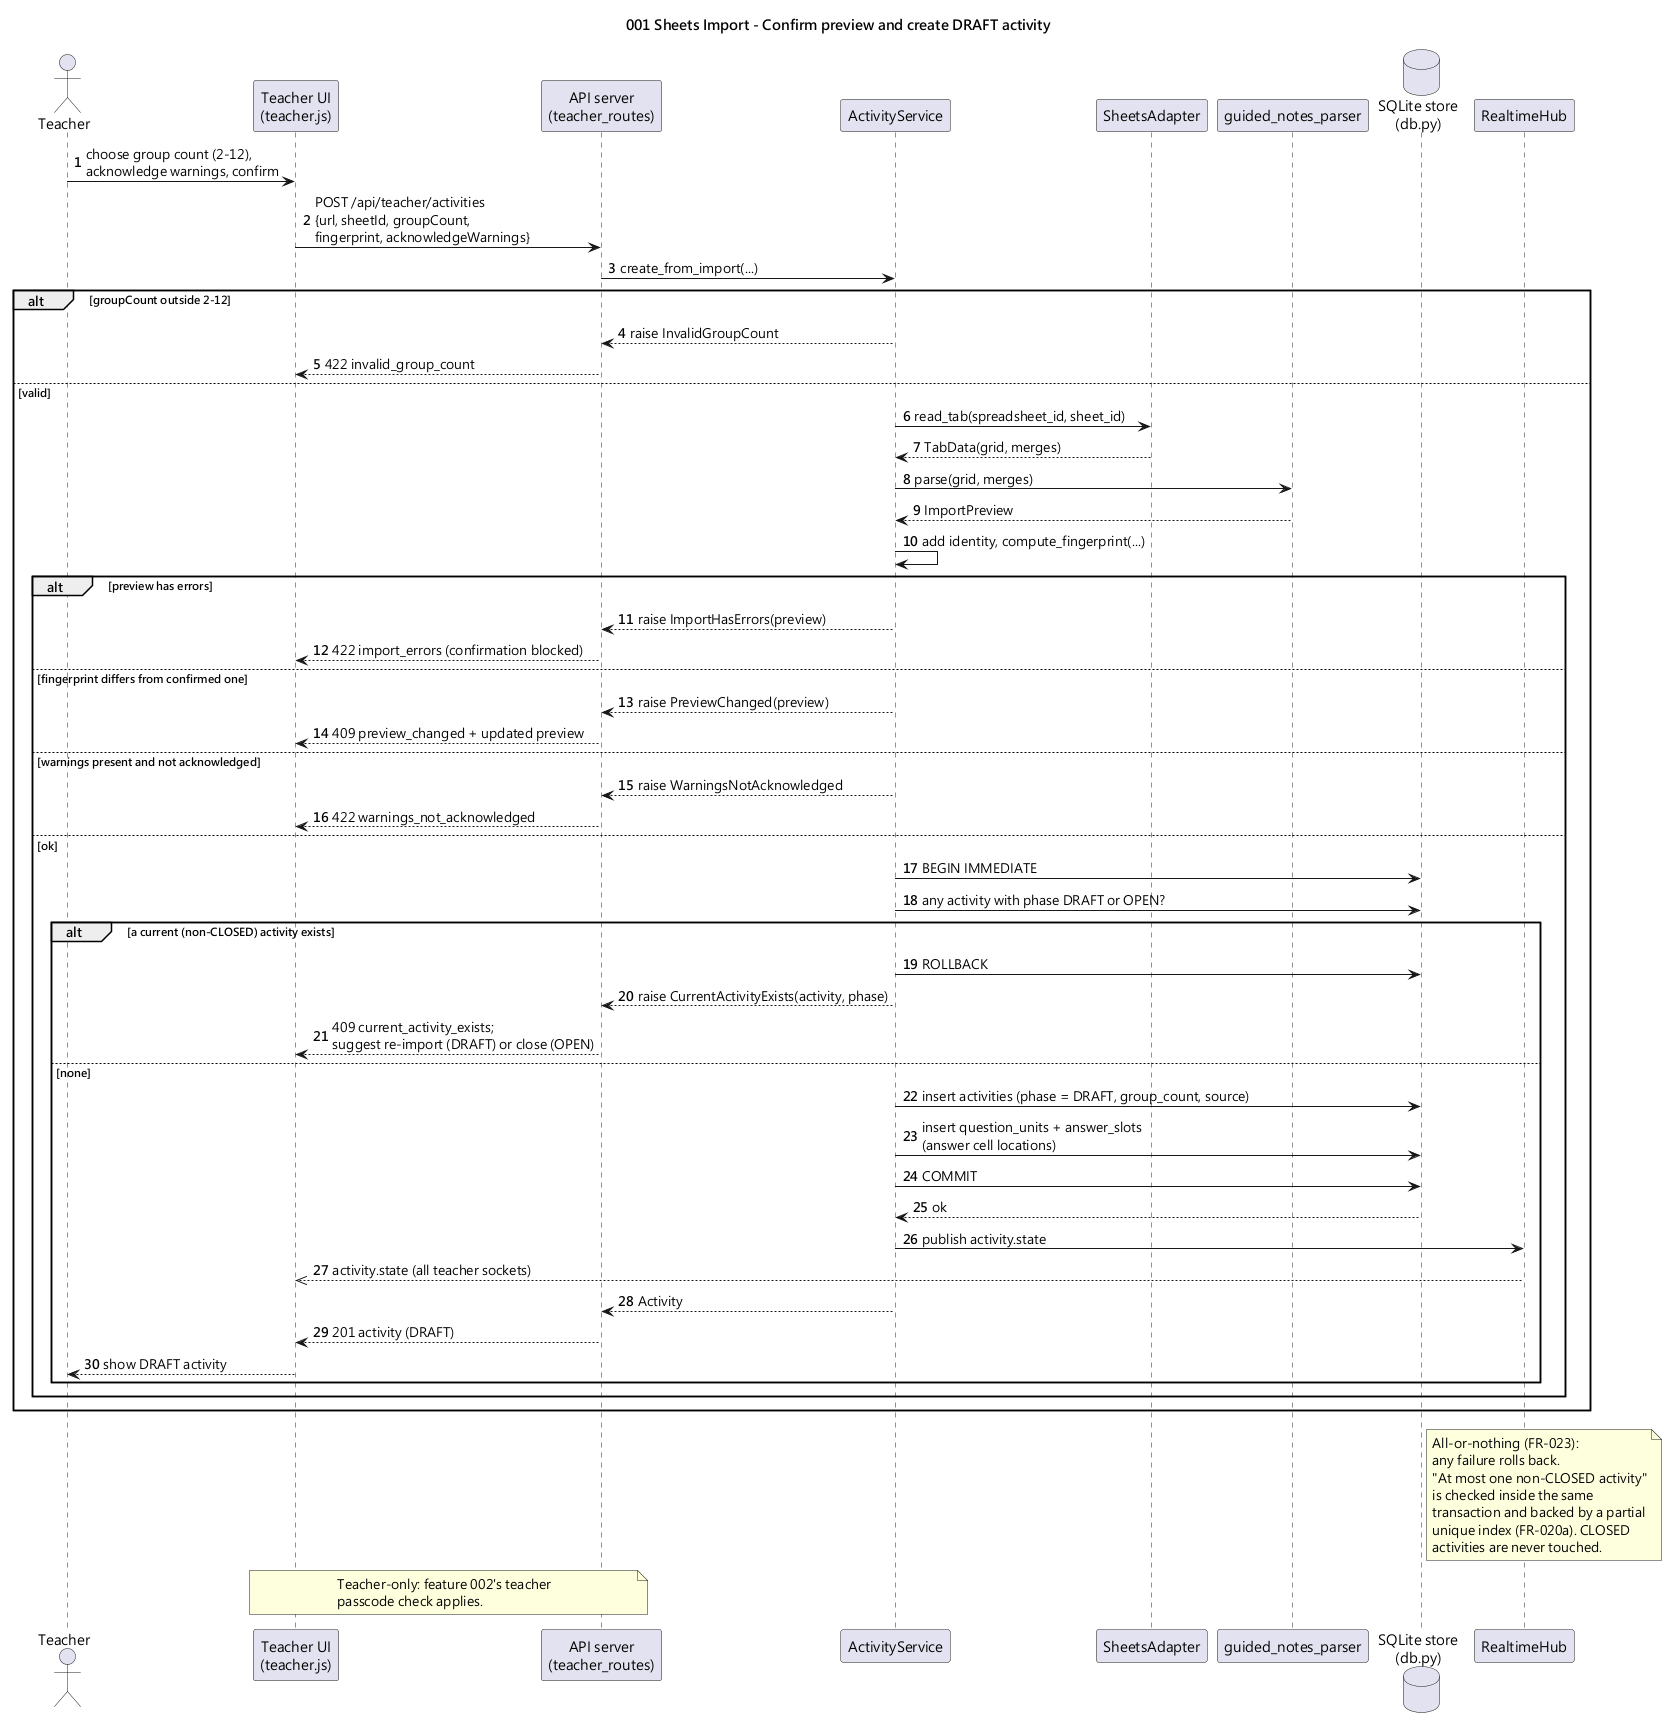
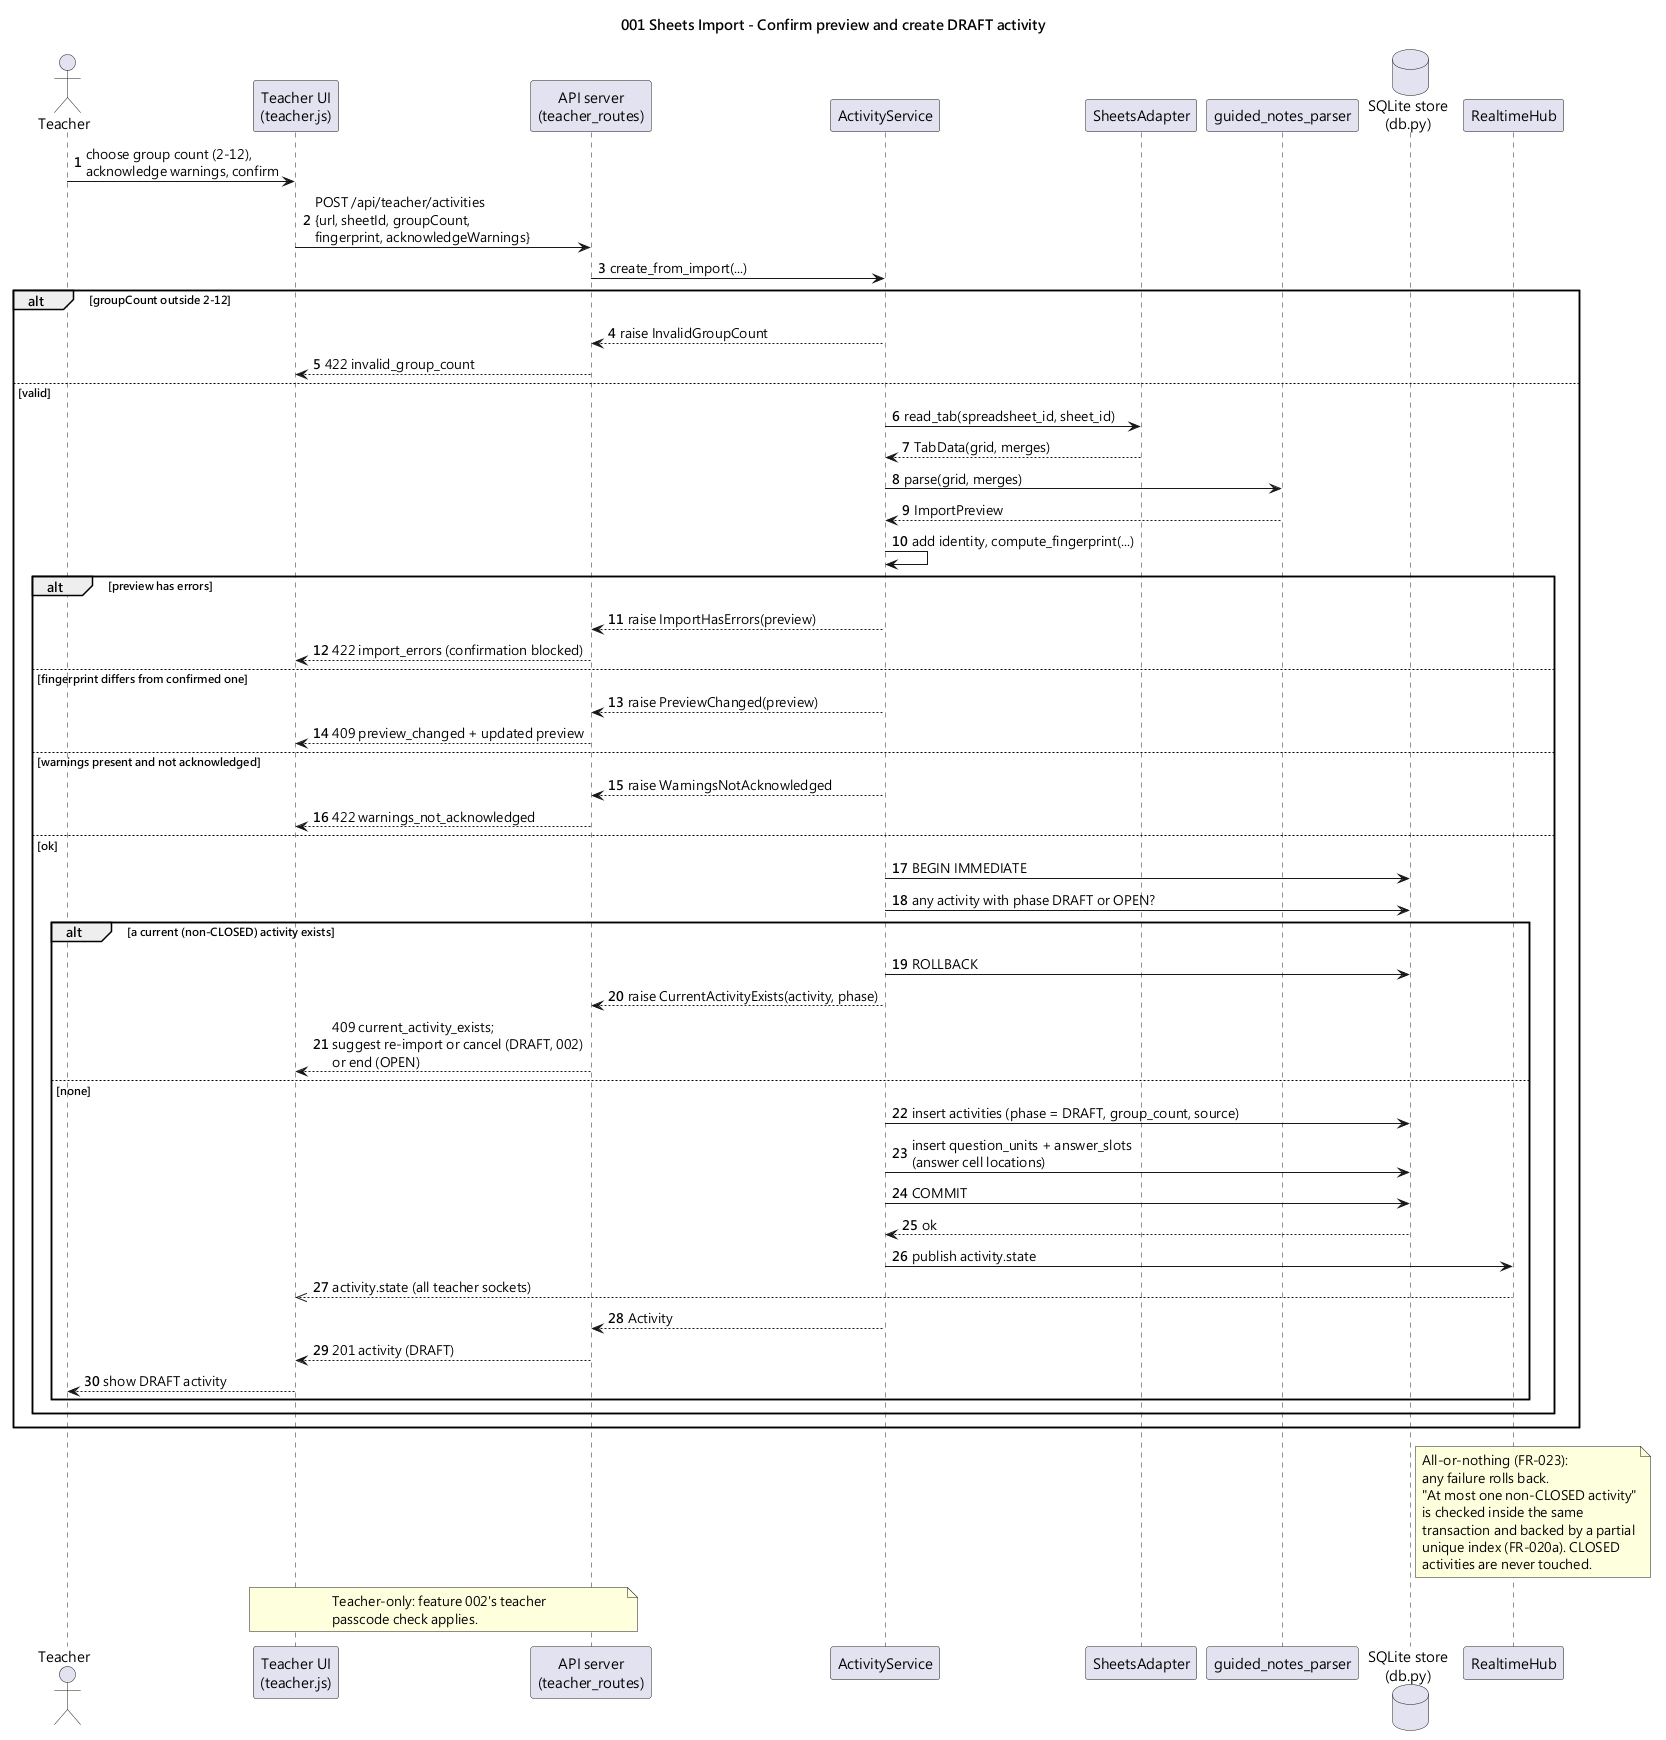
fix(001): suggest cancel for a DRAFT current activity; record 002's displayed activity
- current_activity_exists message: DRAFT -> "re-import into it, or cancel it to
  start over" (002 FR-008a); OPEN -> "End it" (matches 002's End action).
  Unit + integration tests updated first and observed failing.
- New integration test: a CLOSED activity never blocks a new import (FR-020a).
- 001 spec scenario 2.6, tasks T036 wording, 001-seq-confirm-create diagram (re-rendered).
- 001 REST/WebSocket contracts and spec record that feature 002 makes
  GET /activities/current show the latest CLOSED activity when none is DRAFT/OPEN
  (display only; creation is still blocked only by DRAFT/OPEN).

diff --git a/tests/integration/test_import_api.py b/tests/integration/test_import_api.py
@@ -209,7 +209,33 @@ def test_create_when_current_exists_409(client):
     err = r.json()["error"]
     assert err["code"] == "current_activity_exists"
     assert err["details"]["activity"] == {"id": first["id"], "title": first["title"], "phase": "DRAFT"}
-    assert "re-import" in err["message"].lower()
+    message = err["message"].lower()
+    assert "re-import" in message
+    assert "cancel" in message  # 002 FR-008a: a DRAFT activity can be cancelled
+
+
+def test_create_after_previous_activity_closed_201(client, db_path):
+    """Only a DRAFT/OPEN activity blocks a new import, never a CLOSED one (FR-020a, US2 AS7).
+
+    Feature 002 ends activities through POST /activities/{id}/end; until then the phase is set
+    directly. The CLOSED activity must be untouched by the new import.
+    """
+    from quizbuzzer import db
+
+    old = create(client).json()
+    conn = db.connect(db_path)
+    try:
+        conn.execute("UPDATE activities SET phase = 'CLOSED' WHERE id = ?", (old["id"],))
+    finally:
+        conn.close()
+    closed_before = client.get(f"/api/teacher/activities/{old['id']}").json()
+
+    r = create(client, SINGLE)
+    assert r.status_code == 201, r.json()
+    new = r.json()
+    assert new["id"] != old["id"] and new["phase"] == "DRAFT"
+    assert client.get(f"/api/teacher/activities/{old['id']}").json() == closed_before
+    assert client.get("/api/teacher/activities/current").json() == {"activity": new}
 
 
 def test_get_current_and_by_id(client):

diff --git a/src/quizbuzzer/services/activity_service.py b/src/quizbuzzer/services/activity_service.py
@@ -81,9 +81,9 @@ class CurrentActivityExists(Exception):
         self.title = title
         self.phase = phase
         hint = (
-            "Re-import into it to replace its questions."
+            "Re-import into it to replace its questions, or cancel it to start over."
             if phase is Phase.DRAFT
-            else "Close it before creating a new activity."
+            else "End it before creating a new activity."
         )
         super().__init__(
             f'Activity "{title}" is still {phase.value}; only one activity can be current. {hint}'

diff --git a/tests/unit/test_activity_service.py b/tests/unit/test_activity_service.py
@@ -239,6 +239,13 @@ def test_current_activity_blocks_create(svc, db_path, phase):
         first.title,
         Phase(phase),
     )
+    message = str(info.value).lower()
+    if phase == "DRAFT":
+        # 001 US2 AS6 + 002 FR-008a: re-import into it, or cancel it.
+        assert "re-import" in message and "cancel" in message
+    else:
+        # An OPEN activity can only be ended (002 FR-008b), never cancelled.
+        assert "end it" in message and "cancel" not in message
     assert counts(db_path)[0] == 1
 
 

diff --git a/specs/001-sheets-import/spec.md b/specs/001-sheets-import/spec.md
@@ -132,7 +132,8 @@ cells match the preview exactly.
    confirms, **Then** no activity is created and the teacher is shown the updated preview.
 6. **Given** an activity already exists in DRAFT or OPEN, **When** the teacher tries to create a
    new activity, **Then** it is refused with a message naming the current activity and its
-   phase, and suggesting re-import (if DRAFT) or closing it first (if OPEN).
+   phase. For a DRAFT activity it suggests re-importing into it or cancelling it (feature 002,
+   FR-008a). For an OPEN activity it suggests ending it first.
 7. **Given** only CLOSED activities exist, **When** the teacher confirms a clean preview,
    **Then** the new activity is created and the CLOSED activities are kept unchanged.
 
@@ -402,3 +403,9 @@ setup) and verify re-import is refused.
   activity, plus a simple list of past CLOSED activities for viewing results. Building that list
   and the results/CSV view is outside this feature; this feature only guarantees it never deletes
   or alters CLOSED activities (FR-020a).
+- **Feature 002 — displayed activity after End (recorded 2026-11-27)**: when no DRAFT or OPEN
+  activity exists, the teacher's "current activity" view (`GET /api/teacher/activities/current`
+  and the teacher live channel) shows the most recently CLOSED activity with its final dashboard,
+  plus a way to import a new worksheet. That CLOSED activity never blocks a new import: only a
+  DRAFT or OPEN activity does (FR-020a, US2 acceptance scenario 7). This is covered by
+  `test_create_after_previous_activity_closed_201`.

diff --git a/specs/001-sheets-import/tasks.md b/specs/001-sheets-import/tasks.md
@@ -243,7 +243,7 @@ preview.
 - [X] T038 [US2] Extend `src/quizbuzzer/static/teacher.html` and `teacher.js` with:
   - a group-count number input prefilled with 4, range 2–12 (spec Assumptions); the server is still authoritative;
   - a confirm button disabled while `canConfirm` is false, and a warnings acknowledgement checkbox that is required when warnings exist;
-  - handling for `preview_changed`, which re-renders `details.preview`, and for `current_activity_exists`, which names the activity and its phase and suggests re-import (DRAFT) or closing it (OPEN);
+  - handling for `preview_changed`, which re-renders `details.preview`, and for `current_activity_exists`, which names the activity and its phase and suggests re-import or cancel (DRAFT) or ending it (OPEN) (message amended 2026-11-27 for feature 002's cancel, FR-008a);
   - a "current activity" panel driven by `/ws/teacher` `activity.state` that fetches details via `GET /activities/{id}`, so a second tab updates without reloading (M6).
 
   When an activity is current, show it instead of the new-import form.

diff --git a/specs/001-sheets-import/contracts/rest-api.md b/specs/001-sheets-import/contracts/rest-api.md
@@ -130,6 +130,18 @@ Response 201: an `Activity` (see below).
 Response 200: `{ "activity": Activity }`, or `{ "activity": null }` when there is no DRAFT or
 OPEN activity.
 
+**Changed by feature 002** ([002 research R7](../../002-live-buzz-activity/research.md#r7-teacher-view-after-end-fr-029),
+[002 contract](../../002-live-buzz-activity/contracts/rest-api.md#change-to-001-get-apiteacheractivitiescurrent-research-r7)):
+this endpoint returns the teacher's *displayed* activity:
+1. the DRAFT/OPEN activity, if one exists;
+2. otherwise the most recently CLOSED activity (`"phase": "CLOSED"`), so that the final dashboard
+   survives a refresh after End;
+3. otherwise `{ "activity": null }`.
+
+A CLOSED activity returned here **does not block** creating a new one. `POST /activities` is
+refused (409 `current_activity_exists`) only while a DRAFT or OPEN activity exists (FR-020a).
+Until 002 is implemented, case 2 returns `null`.
+
 ## GET /api/teacher/activities/{id}
 
 Response 200: `Activity`. Returns 404 `not_found` if the activity does not exist (service

diff --git a/specs/001-sheets-import/contracts/websocket.md b/specs/001-sheets-import/contracts/websocket.md
@@ -37,6 +37,12 @@ When there is no current (DRAFT/OPEN) activity:
 The message carries a summary only; clients fetch full detail with
 `GET /api/teacher/activities/{id}`.
 
+**Changed by feature 002** ([002 websocket contract](../../002-live-buzz-activity/contracts/websocket.md)):
+`activity` is the teacher's *displayed* activity. That is the DRAFT/OPEN one, otherwise the most
+recently CLOSED one, otherwise `null`, as for `GET /api/teacher/activities/current`. A CLOSED
+activity shown here never blocks a new import. 002 also adds `dashboard.state` and requires the
+teacher cookie on connect.
+
 ## Client → server
 
 None in this feature. Any frame received is ignored. Unknown `type` values are reserved for
